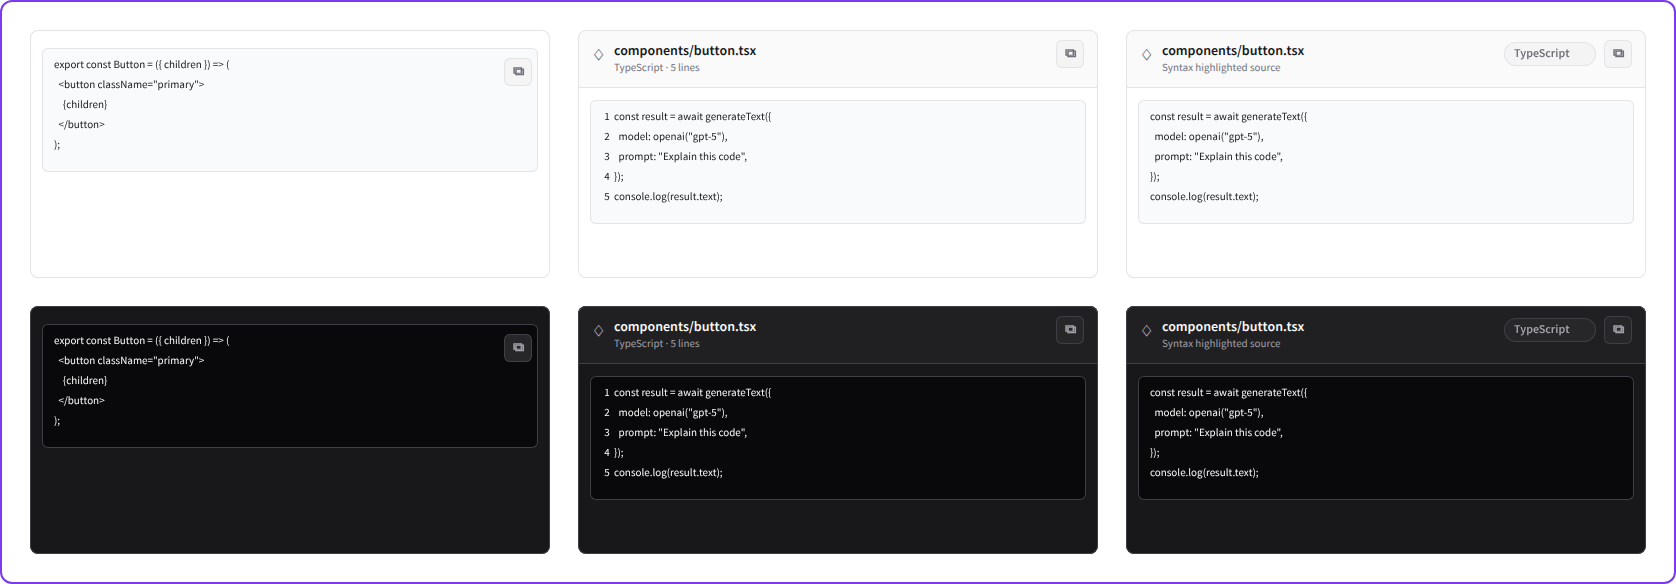
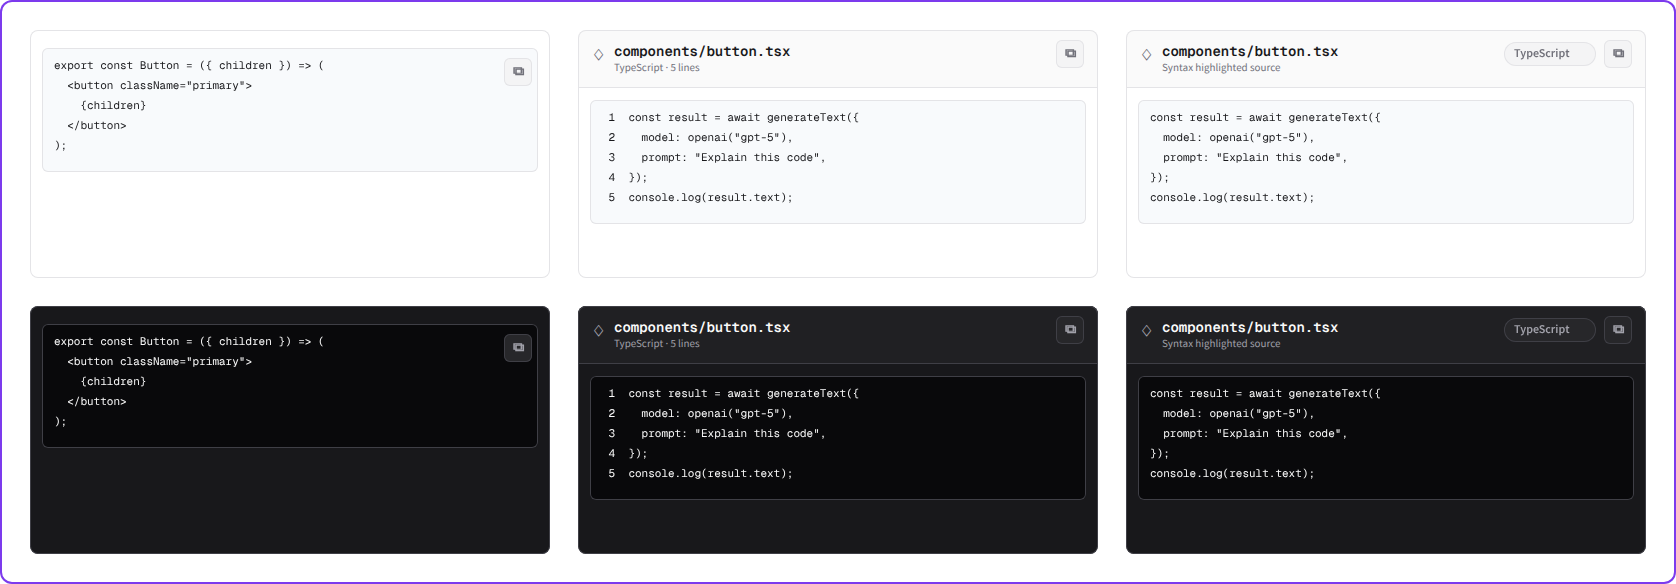
fix(penpot): use mono font for code blocks

diff --git a/.aisteering/summaries/2026-08-23-code-block-mono-font.md b/.aisteering/summaries/2026-08-23-code-block-mono-font.md
@@ -1,0 +1,25 @@
+# Code Block monospace correction
+
+Date: 2026-08-23
+
+## What changed
+
+- Updated Code Block filenames and code-content layers across all six Light/Dark shared-library variants to Geist Mono while preserving existing weights.
+- Propagated the published-library update to linked consumer-lab proofs, including nested Sandbox Code Blocks.
+- Refreshed `penpot/exports/code/code-block.png` and saved Penpot version `Code Block Geist Mono @ 6a9d5b1`.
+
+## Why
+
+The pinned React source applies `font-mono` to `CodeBlockFilename` and the rendered `code` element; the Penpot components previously used Source Sans Pro.
+
+## Validation
+
+- Live shared library: 34/34 targeted filename and code-content layers use Geist Mono, with no target overflow.
+- Live consumer lab: all six Code Block proof roots remain linked to their original UUIDs; 66/66 direct and nested targets use Geist Mono.
+- `pnpm penpot:bindings:test`
+- `pnpm penpot:bindings:validate`
+
+## Notes
+
+- The binding manifest, source pins, variant mappings, and public React API are unchanged.
+- Voice retains the next shared Penpot writer slot; this correction did not begin Voice work.

diff --git a/.aisteering/scratchpads/2026-08-22-penpot-bindings.md b/.aisteering/scratchpads/2026-08-22-penpot-bindings.md
@@ -41,3 +41,4 @@ Date: 2026-08-22
 - The docs production build requires `NODE_ENV=production`; the host session exports `NODE_ENV=development`, which makes Next.js production validation fail on `/_global-error` before route generation.
 - Voice is the next serialized writer slot after the verified Code commit handoff. Do not begin Voice from the Code task.
 - The already-published `AI Elements` library was verified in published state and saved as explicit version `Code @ 6a9d5b1` after every Code gate passed.
+- 2026-08-23: Corrected all Code Block filename and code-content layers to `Geist Mono`, matching the pinned React `font-mono` contract. Published version `Code Block Geist Mono @ 6a9d5b1`; all six direct consumer proofs and nested Sandbox code content updated in place without detaching or changing component identities.

diff --git a/.aisteering/plans/active/ai-elements-penpot-library-rollout.md b/.aisteering/plans/active/ai-elements-penpot-library-rollout.md
@@ -63,7 +63,7 @@ Question is intentionally included from the pinned repository source and docs ev
 - [x] test-results
 - [x] web-preview
 
-Code adds 15 component families, 98 mapped variants, 98 linked consumer instances, and 15 checked reference PNGs. The preserved 19-entry Chatbot manifest slice retains its pre-Code canonical hash.
+Code adds 15 component families, 98 mapped variants, 98 linked consumer instances, and 15 checked reference PNGs. Code Block filenames and code-content layers use Geist Mono in every Light/Dark variant, including nested Sandbox instances. The preserved 19-entry Chatbot manifest slice retains its pre-Code canonical hash.
 
 ### 3. Voice — released after Code
 
